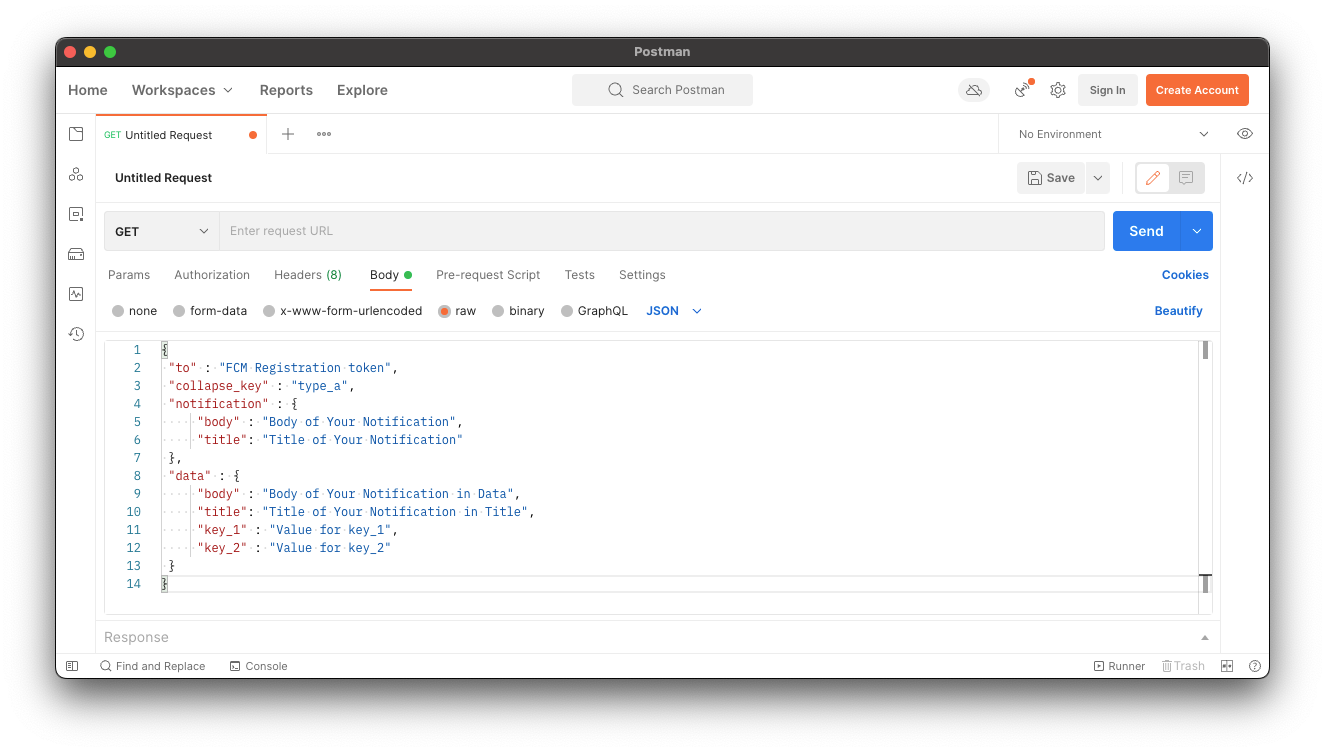
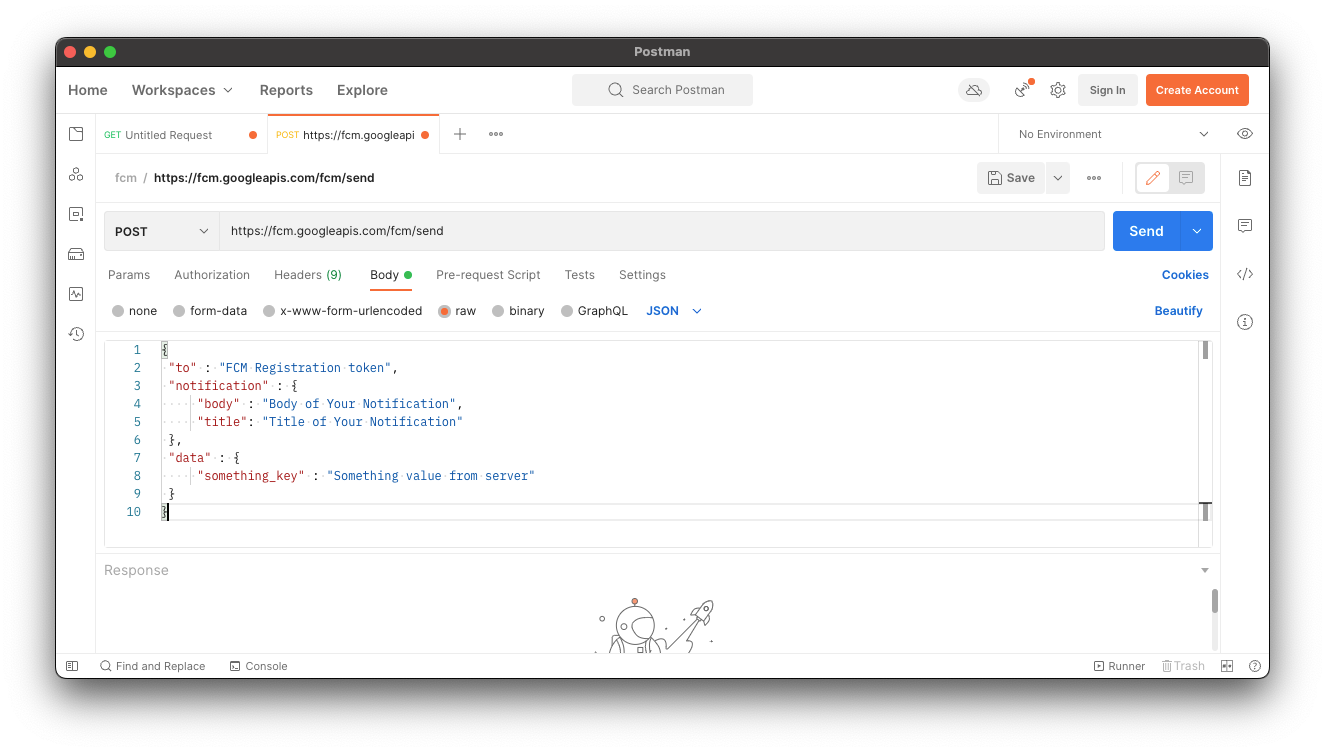
fixes

diff --git a/university/10-push-notifications/testing.md b/university/10-push-notifications/testing.md
@@ -30,20 +30,18 @@ sidebar_position: 3
 ```json
 {
  "to" : "FCM Registration token",
- "collapse_key" : "type_a",
  "notification" : {
      "body" : "Body of Your Notification",
      "title": "Title of Your Notification"
  },
  "data" : {
-     "body" : "Body of Your Notification in Data",
-     "title": "Title of Your Notification in Title",
-     "key_1" : "Value for key_1",
-     "key_2" : "Value for key_2"
+     "something_key" : "Something value from server"
  }
 }
 ```
-Не забудте заменить `FCM Registration token` на реальный токен устройстова.
+Поле `data` - отвечает за различные параметры для пуша, которые может отправить сервер. Например, пуш о публикации какой-нибудь новости, в `data` может быть `news_id: 123`.    
+
+Не забудьте заменить `FCM Registration token` на реальный токен устройства.
 
 ![img.png](media/postman-request-body-example.png)
 
@@ -52,3 +50,4 @@ sidebar_position: 3
 
 Результат запроса:
 ![img.png](media/response-example.png)
+![img.jpg](media/response-example-phone.png)
